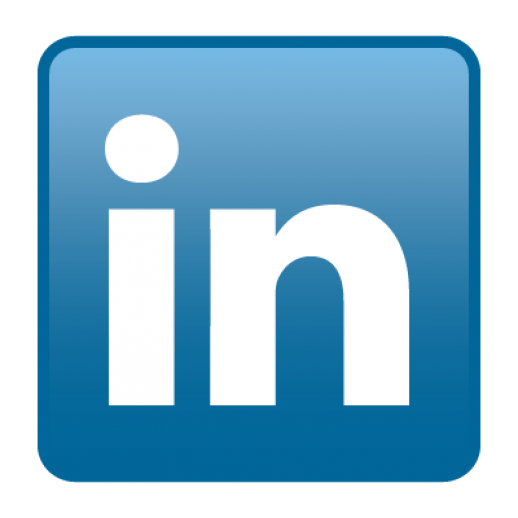
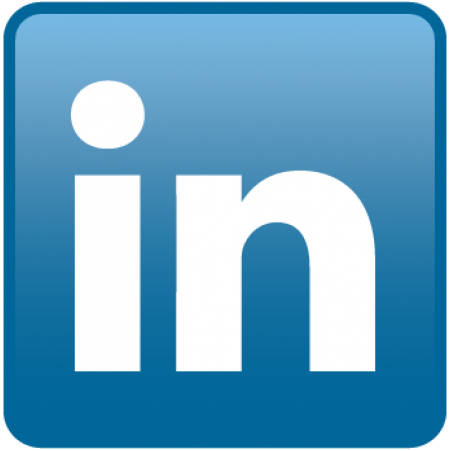
New adjustments.

diff --git a/portfolio.css b/portfolio.css
@@ -15,8 +15,15 @@ body {
 /* Boilerplate End */
 
 /* Remove underline in links */
+
 a {
 	text-decoration: none;
+	color: #000000;
+}
+
+/* Menu text changes colour on hover*/
+a:hover {
+	color: gray;
 }
 
 /* John Hasznosi */
@@ -61,17 +68,13 @@ nav .container {
 	margin: auto;
 }
 
-.projects {
-	text-align: center;
-}
-
 .imagebanner {
 	background-image: url("laptop.jpg");
 	background-size: cover;
 }
 
 .skills {
-	padding: 5px 0;
+
 	width: 50%;
 	margin: 0 auto;
 	text-align: right;
@@ -91,10 +94,62 @@ nav .container {
 }
 
 footer {
-	padding: 0 0 15px 25px;
+	text-align: center;
+	padding: 10px 0 15px 0;
+}
+
+/* Projects */
+.projects {
+	text-align: center;
 }
 
 .projects img {
 	width: auto;
 	height: 100px;
+}
+
+.projects h3 {
+	padding: 20px 0 0 0;
+}
+
+/* About Me page */
+
+.aboutme {
+	margin: auto;
+	width: 50%;
+	padding: 5px;
+}
+
+h2 {
+	font-size: 2rem;
+}
+
+/* Email and Phone */
+
+.contactme {
+	margin: 0 auto;
+	width: 50%;
+	padding: 0px;
+}
+
+/* Contact Buttons Container */
+
+.contact-container {
+	overflow: auto;
+	width: 50%;
+	margin: 0 auto;
+	text-align: center;
+}
+
+/* Contact buttons centered */
+
+.contact-icon {
+	display: inline-block;
+}
+
+/* Contact Buttons Size */
+
+.contact-icon img {
+	height: 40px;
+	width: auto;
 }

diff --git a/portfolio3.html b/portfolio3.html
@@ -39,27 +39,37 @@
 	<div class="contactme">
 		<div class="details">
 			<h3>Email:</h3>
-			<p>John.Hasznosi@gmail.com
-			</p>
+			<p>John.Hasznosi@gmail.com</p>
 			<h3>Phone #:</h3>
 			<p>07749 327351</p>
 		</div>
 	</div>
-
-	<div class="cv">
-		<a href="cv.doc">
-			<img src="CV.png" alt="CV Download">
-		</a>
-	<div class="linkedin">
-		<a href="https://twitter.com/John_Hasznosi">
-			<img src="linkedin.png">	
-	</div>
 	
-	<div class="twitter">
-		<a href="">
-			<img src="twitter.png">	
+	<div class="container">
+		
+		<div class="contact-container">
+			
+			<div class="cv contact-icon">
+				<a href="#">
+					<img src="CV.png" alt="CV Download">
+				</a>
+			</div>
+		
+			<div class="linkedin contact-icon">
+				<a href="https://www.linkedin.com/in/john-hasznosi/">
+					<img src="linkedin.png">
+				</a>	
+			</div>
+		
+			<div class="twitter contact-icon">
+				<a href="https://twitter.com/John_Hasznosi">
+					<img src="twitter.png">
+				</a>
+			</div>
+			
+		</div>
+		
 	</div>
-	
 	<footer>
 		&copy; Copyright: John Hasznosi - 2019
 	</footer>

diff --git a/portfolio.html b/portfolio.html
@@ -26,11 +26,11 @@
 		</div>
 			
 		<div class="link">
-			<a href="#" class="about">About Me</a>
+			<a href="portfolio2.html" class="about">About Me</a>
 		</div>
 		
 		<div class="link">
-			<a href="#" class="contact">Contact Me</a>
+			<a href="portfolio3.html" class="contact">Contact Me</a>
 		</div>
 		
 		</div>
@@ -46,9 +46,6 @@
 				<h3>Javascript</h3>
 				<h3>Scrum</h3>
 				<h3>Agile</h3>
-				<h3>Pending</h3>
-				<h3>Pending</h3>
-				<h3>Pending</h3>
 			</div>
 		</div>
 	</div>
@@ -56,12 +53,15 @@
 	<div class="projects">
 		
 		<h3>Portfolio</h3>
-		
-		<img src="HTMLCSS.svg" alt="HTML / CSS Picture">
-	
-		<img src="PHP.png" alt="PHP Picture">
-	
-		<img src="Javascript.png" alt="Javascript Picture">
+		<a href="#">
+			<img src="HTMLCSS.svg" alt="HTML / CSS Picture">
+		</a>
+		<a href="#">
+			<img src="PHP.png" alt="PHP Picture">
+		</a>
+		<a href="#">
+			<img src="Javascript.png" alt="Javascript Picture">
+		</a>
 	
 	</div>
 	
